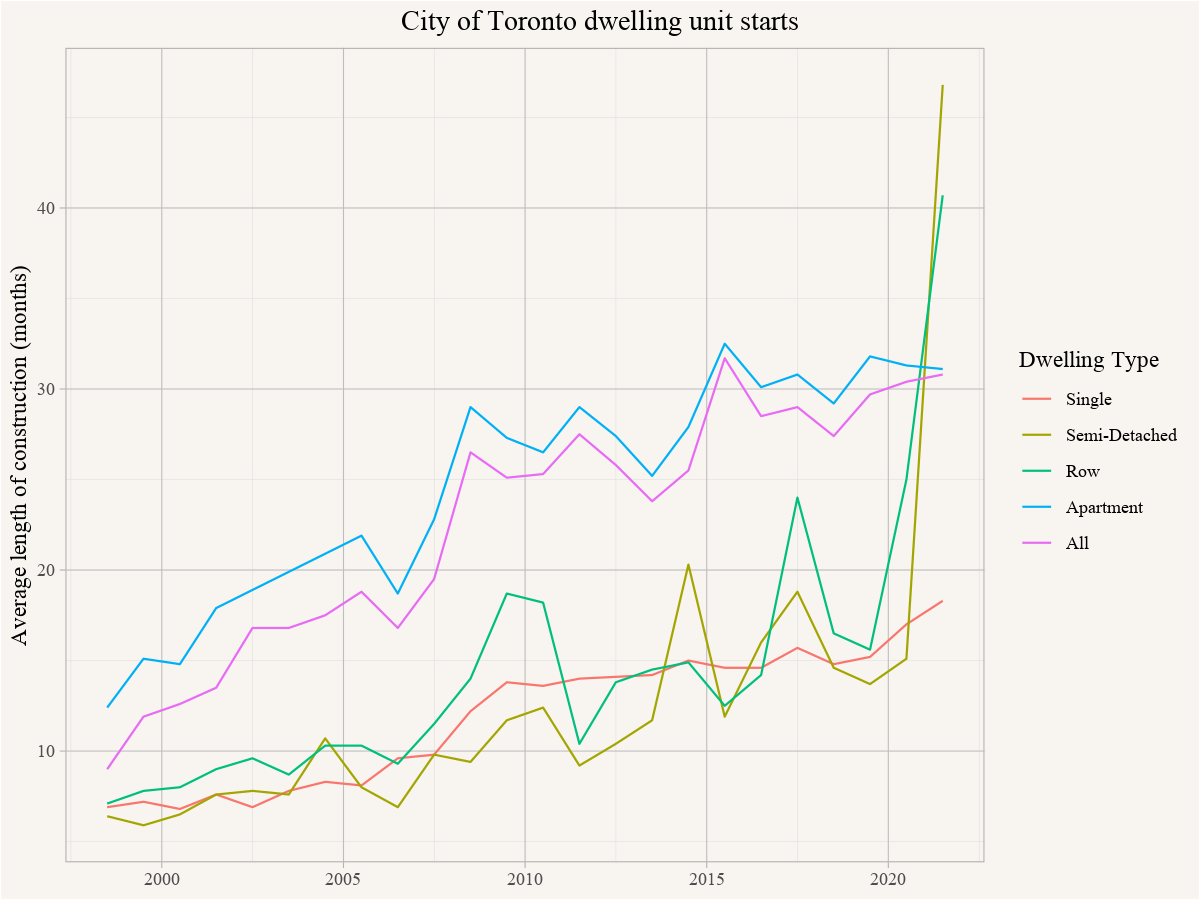
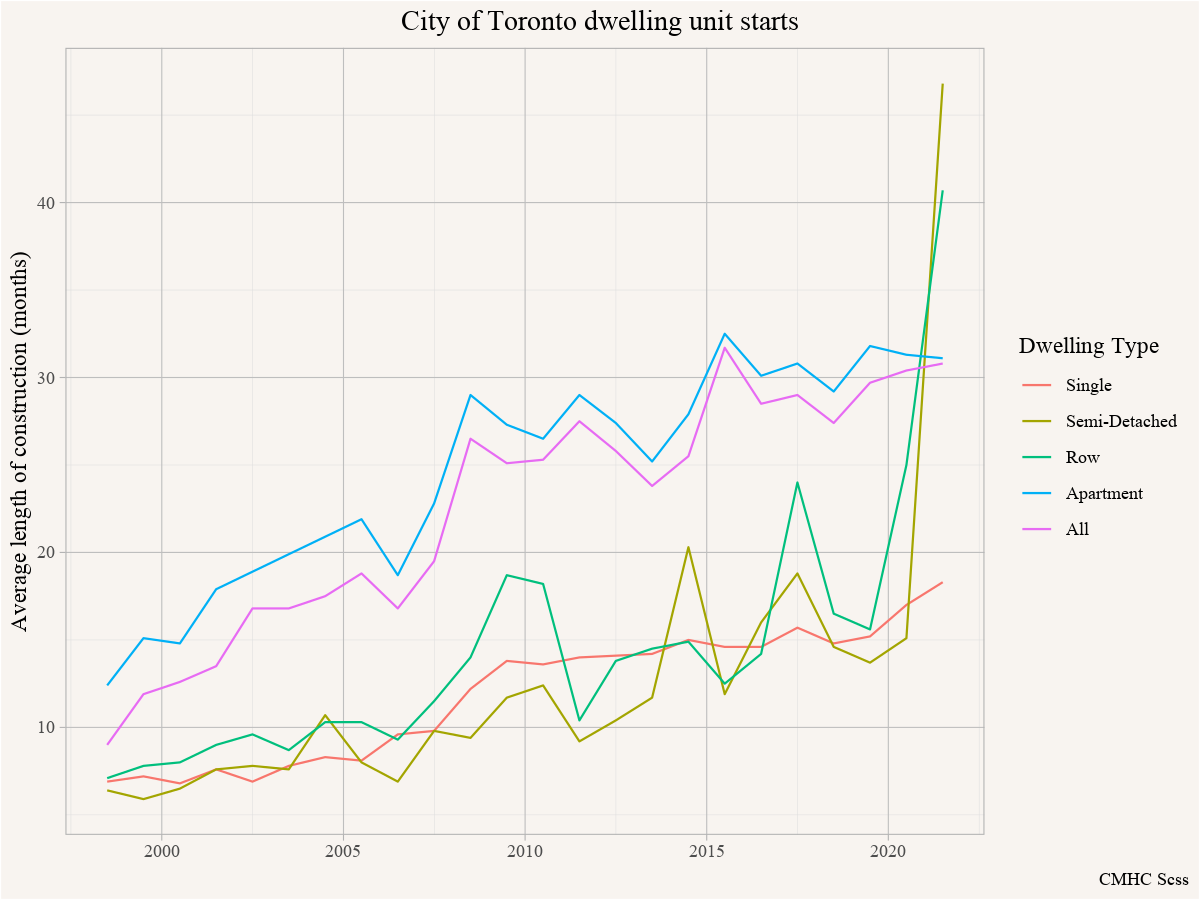
tweaks

diff --git a/docs/basic_descriptive/under_construction.html b/docs/basic_descriptive/under_construction.html
@@ -331,7 +331,7 @@ code span.wa { color: #60a0b0; font-weight: bold; font-style: italic; } /* Warni
 <section id="data-acquisition" class="level2" data-number="8.3">
 <h2 data-number="8.3" class="anchored" data-anchor-id="data-acquisition"><span class="header-section-number">8.3</span> Data acquisition</h2>
 <p>The <a href="https://mountainmath.github.io/cmhc/"><strong>cmhc</strong> package</a> facilitates importing data from CMHC. This pries data out the <a href="https://www03.cmhc-schl.gc.ca/hmip-pimh/en">Housing Market Information Portal</a> where data is organized across a variety of tables. The easiest way to locate a table of interest is to use the <code>select_cmhc_table()</code> function from the <strong>cmhc</strong> package in the console to interactively step through the process. In our case, we are interested in data from the Starts and Completions Survey (<strong>Scss</strong>), look at the <strong>Under Construction</strong> series, after which we can select to have data broken down by B<strong>edroom Type</strong> or I<strong>ntended Market</strong>, where we select the former. Lastly we need to decide the breakdown type, either a level of geography or <strong>Historical Time Periods</strong> for a fixed geography, which is what we are interested in.</p>
-<p>Going through this process gives us the code we need to access the data, all we need to do is fill in the geographic identifier. The <strong>cmhc</strong> package is designed to work in conjunction with other census data, so it uses the same geographic identifiers and translates them to CMHC’s own internal geographic identifiers under the hood. For Toronto, we need to decided if we are interested in the City of the metro area and grab the geographic identifier from the CensusMapper API tool. We will query data for the City of Toronto.</p>
+<p>Going through this process gives us the code we need to access the data, all we need to do is fill in the geographic identifier. The <strong>cmhc</strong> package is designed to work in conjunction with other census data, so it uses the same geographic identifiers and translates them to CMHC’s own internal geographic identifiers under the hood. For Toronto, we need to decided if we are interested in the City of the metro area and grab the geographic identifier from the <a href="https://censusmapper.ca/api/">CensusMapper API tool</a>. We will query data for the City of Toronto with standard StatCan geographic identifier “3520005” .</p>
 <div class="cell" data-hash="under_construction_cache/html/unnamed-chunk-1_8315094a1c3dc8d1d578ba29e32ba195">
 <div class="sourceCode cell-code" id="cb1"><pre class="sourceCode r code-with-copy"><code class="sourceCode r"><span id="cb1-1"><a href="#cb1-1" aria-hidden="true" tabindex="-1"></a><span class="fu">library</span>(tidyverse)</span>
 <span id="cb1-2"><a href="#cb1-2" aria-hidden="true" tabindex="-1"></a><span class="fu">library</span>(cmhc)</span>
@@ -363,18 +363,18 @@ code span.wa { color: #60a0b0; font-weight: bold; font-style: italic; } /* Warni
 <section id="analysis-and-visualization" class="level2" data-number="8.5">
 <h2 data-number="8.5" class="anchored" data-anchor-id="analysis-and-visualization"><span class="header-section-number">8.5</span> Analysis and visualization</h2>
 <p>What’s left is to plot the data, broken out by dwelling type.</p>
-<div class="cell" data-hash="under_construction_cache/html/unnamed-chunk-3_26a825b8593c175565a6ad0fa340b84a">
+<div class="cell" data-hash="under_construction_cache/html/unnamed-chunk-3_d97290c184236128d421fe8a72247c71">
 <div class="sourceCode cell-code" id="cb4"><pre class="sourceCode r code-with-copy"><code class="sourceCode r"><span id="cb4-1"><a href="#cb4-1" aria-hidden="true" tabindex="-1"></a><span class="fu">ggplot</span>(under_construction, <span class="fu">aes</span>(<span class="at">x=</span>Date,<span class="at">y=</span>Value,<span class="at">colour=</span><span class="st">`</span><span class="at">Dwelling Type</span><span class="st">`</span>)) <span class="sc">+</span></span>
 <span id="cb4-2"><a href="#cb4-2" aria-hidden="true" tabindex="-1"></a>  <span class="fu">geom_line</span>() <span class="sc">+</span></span>
 <span id="cb4-3"><a href="#cb4-3" aria-hidden="true" tabindex="-1"></a>  <span class="fu">scale_y_continuous</span>(<span class="at">labels=</span>scales<span class="sc">::</span>comma) <span class="sc">+</span></span>
 <span id="cb4-4"><a href="#cb4-4" aria-hidden="true" tabindex="-1"></a>  <span class="fu">labs</span>(<span class="at">title=</span><span class="st">"City of Toronto dwelling units under construction"</span>,</span>
-<span id="cb4-5"><a href="#cb4-5" aria-hidden="true" tabindex="-1"></a>       <span class="at">x=</span><span class="cn">NULL</span>,<span class="at">y=</span><span class="st">"Number of units"</span>)</span></code><button title="Copy to Clipboard" class="code-copy-button"><i class="bi"></i></button></pre></div>
+<span id="cb4-5"><a href="#cb4-5" aria-hidden="true" tabindex="-1"></a>       <span class="at">x=</span><span class="cn">NULL</span>,<span class="at">y=</span><span class="st">"Number of units"</span>, <span class="at">caption=</span><span class="st">"CMHC Scss"</span>)</span></code><button title="Copy to Clipboard" class="code-copy-button"><i class="bi"></i></button></pre></div>
 <div class="cell-output-display">
 <p><img src="under_construction_files/figure-html/unnamed-chunk-3-1.png" class="img-fluid"></p>
 </div>
 </div>
 <p>It looks like the number of units under construction, especially apartment units, has increased considerably over time. Let’s cross-check that against housing starts. These tend to by quite noisy, so we go to annual frequency instead of monthly. We can adapt the code above for data acquisition and graphing into one chunk.</p>
-<div class="cell" data-hash="under_construction_cache/html/unnamed-chunk-4_bb9ac2988a8da88f789f41c6e623c637">
+<div class="cell" data-hash="under_construction_cache/html/unnamed-chunk-4_90fc5d04b6608a21e7e99be2053494f9">
 <div class="sourceCode cell-code" id="cb5"><pre class="sourceCode r code-with-copy"><code class="sourceCode r"><span id="cb5-1"><a href="#cb5-1" aria-hidden="true" tabindex="-1"></a><span class="fu">get_cmhc</span>(<span class="at">survey =</span> <span class="st">"Scss"</span>, </span>
 <span id="cb5-2"><a href="#cb5-2" aria-hidden="true" tabindex="-1"></a>         <span class="at">series =</span> <span class="st">"Starts"</span>, </span>
 <span id="cb5-3"><a href="#cb5-3" aria-hidden="true" tabindex="-1"></a>         <span class="at">dimension =</span> <span class="st">"Dwelling Type"</span>, </span>
@@ -385,13 +385,13 @@ code span.wa { color: #60a0b0; font-weight: bold; font-style: italic; } /* Warni
 <span id="cb5-8"><a href="#cb5-8" aria-hidden="true" tabindex="-1"></a>  <span class="fu">geom_line</span>() <span class="sc">+</span></span>
 <span id="cb5-9"><a href="#cb5-9" aria-hidden="true" tabindex="-1"></a>  <span class="fu">scale_y_continuous</span>(<span class="at">labels=</span>scales<span class="sc">::</span>comma) <span class="sc">+</span></span>
 <span id="cb5-10"><a href="#cb5-10" aria-hidden="true" tabindex="-1"></a>  <span class="fu">labs</span>(<span class="at">title=</span><span class="st">"City of Toronto dwelling unit starts"</span>,</span>
-<span id="cb5-11"><a href="#cb5-11" aria-hidden="true" tabindex="-1"></a>       <span class="at">x=</span><span class="cn">NULL</span>,<span class="at">y=</span><span class="st">"Number of units"</span>)</span></code><button title="Copy to Clipboard" class="code-copy-button"><i class="bi"></i></button></pre></div>
+<span id="cb5-11"><a href="#cb5-11" aria-hidden="true" tabindex="-1"></a>       <span class="at">x=</span><span class="cn">NULL</span>,<span class="at">y=</span><span class="st">"Number of units"</span>, <span class="at">caption=</span><span class="st">"CMHC Scss"</span>)</span></code><button title="Copy to Clipboard" class="code-copy-button"><i class="bi"></i></button></pre></div>
 <div class="cell-output-display">
 <p><img src="under_construction_files/figure-html/unnamed-chunk-4-1.png" class="img-fluid"></p>
 </div>
 </div>
 <p>Starts have increased, but not that much. Something else must be at play too, let’s look at how length of construction has changed over this timeframe, again using annual data to cut down on noise.</p>
-<div class="cell" data-hash="under_construction_cache/html/unnamed-chunk-5_191c995969717ae2b35b909d76babf37">
+<div class="cell" data-hash="under_construction_cache/html/unnamed-chunk-5_f24dee5391a15e6ba861120b0c286bd3">
 <div class="sourceCode cell-code" id="cb6"><pre class="sourceCode r code-with-copy"><code class="sourceCode r"><span id="cb6-1"><a href="#cb6-1" aria-hidden="true" tabindex="-1"></a><span class="fu">get_cmhc</span>(<span class="at">survey =</span> <span class="st">"Scss"</span>, </span>
 <span id="cb6-2"><a href="#cb6-2" aria-hidden="true" tabindex="-1"></a>         <span class="at">series =</span> <span class="st">"Length of Construction"</span>, </span>
 <span id="cb6-3"><a href="#cb6-3" aria-hidden="true" tabindex="-1"></a>         <span class="at">dimension =</span> <span class="st">"Dwelling Type"</span>, </span>
@@ -402,13 +402,14 @@ code span.wa { color: #60a0b0; font-weight: bold; font-style: italic; } /* Warni
 <span id="cb6-8"><a href="#cb6-8" aria-hidden="true" tabindex="-1"></a>  <span class="fu">geom_line</span>() <span class="sc">+</span></span>
 <span id="cb6-9"><a href="#cb6-9" aria-hidden="true" tabindex="-1"></a>  <span class="fu">scale_y_continuous</span>(<span class="at">labels=</span>scales<span class="sc">::</span>comma) <span class="sc">+</span></span>
 <span id="cb6-10"><a href="#cb6-10" aria-hidden="true" tabindex="-1"></a>  <span class="fu">labs</span>(<span class="at">title=</span><span class="st">"City of Toronto dwelling unit starts"</span>,</span>
-<span id="cb6-11"><a href="#cb6-11" aria-hidden="true" tabindex="-1"></a>       <span class="at">x=</span><span class="cn">NULL</span>,<span class="at">y=</span><span class="st">"Average length of construction (months)"</span>)</span></code><button title="Copy to Clipboard" class="code-copy-button"><i class="bi"></i></button></pre></div>
+<span id="cb6-11"><a href="#cb6-11" aria-hidden="true" tabindex="-1"></a>       <span class="at">x=</span><span class="cn">NULL</span>,<span class="at">y=</span><span class="st">"Average length of construction (months)"</span>,</span>
+<span id="cb6-12"><a href="#cb6-12" aria-hidden="true" tabindex="-1"></a>       <span class="at">caption=</span><span class="st">"CMHC Scss"</span>)</span></code><button title="Copy to Clipboard" class="code-copy-button"><i class="bi"></i></button></pre></div>
 <div class="cell-output-display">
 <p><img src="under_construction_files/figure-html/unnamed-chunk-5-1.png" class="img-fluid"></p>
 </div>
 </div>
 <p>And indeed, the length of construction shot up a lot, for apartments from around 13 months in the late 90s to about 30 months around 2020. That means we now have over twice as many construction sites for the same number of units coming to market compared to the late 90s.</p>
-<p>The sharp increase in construction time for Semi-detached and row houses might well be a data anomaly, where dropping number of starts of such units can be disproportionally impacted by a couple of stalled projects.</p>
+<p>The sharp increase in construction time for Semi-detached and row houses might well be a data anomaly, where low and dropping number of starts of such units can be disproportionally impacted by a couple of stalled projects.</p>
 </section>
 <section id="interpretation" class="level2" data-number="8.6">
 <h2 data-number="8.6" class="anchored" data-anchor-id="interpretation"><span class="header-section-number">8.6</span> Interpretation</h2>
